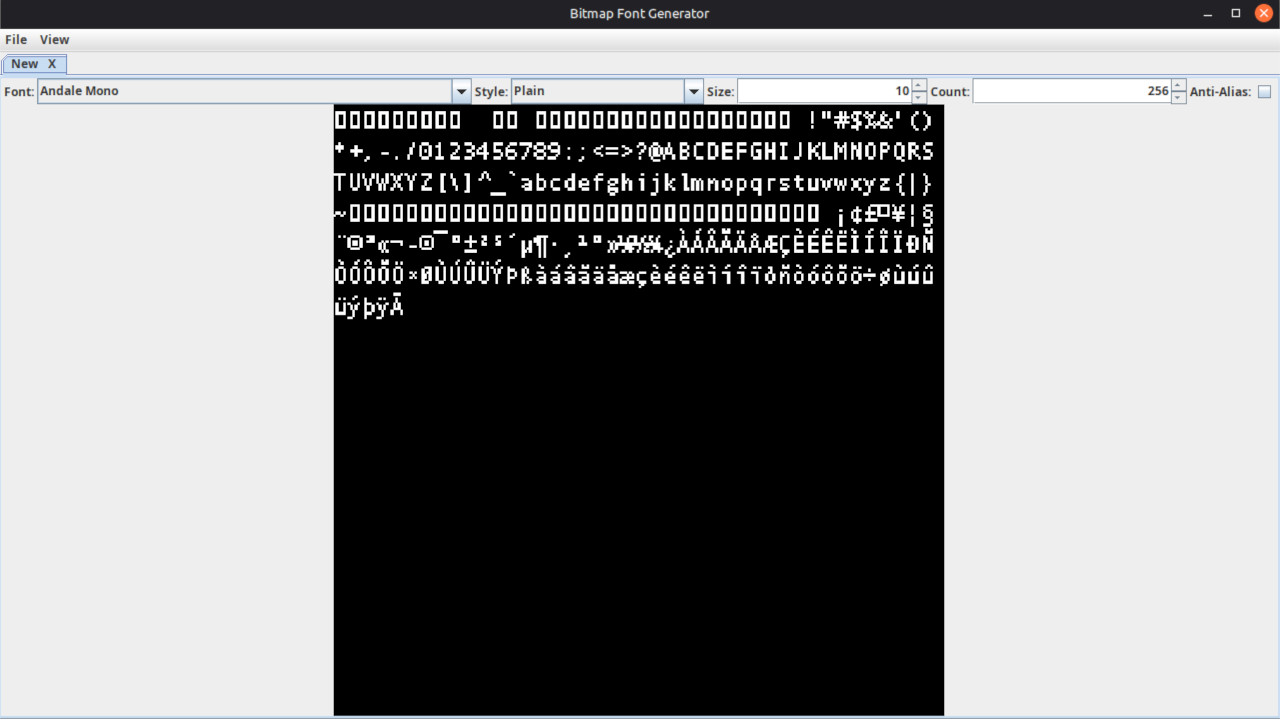
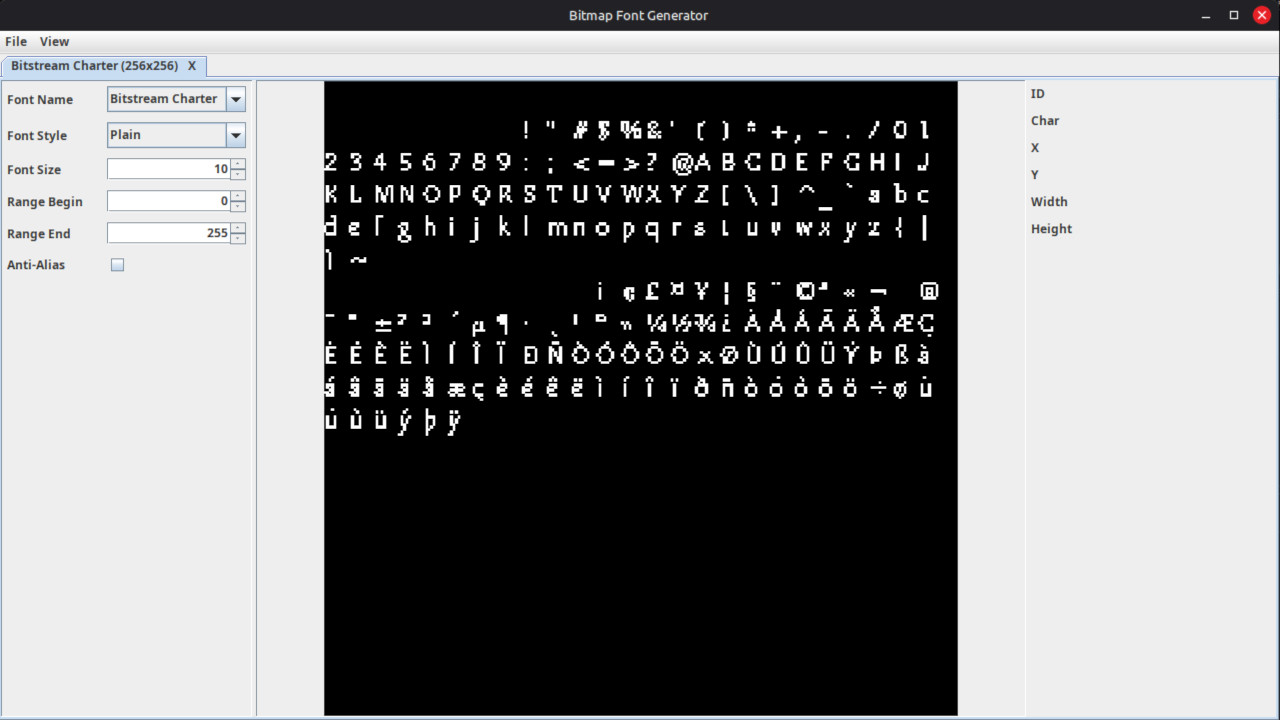
Compile and release

Changed region(s): [[0.0, 0.0, 1.0, 1.0], [0.0, 0.275, 0.0625, 0.3972], [0.8125, 0.275, 0.8438, 0.3361]]

diff --git a/src/org/bfg/Main.java b/src/org/bfg/Main.java
@@ -124,7 +124,7 @@ public final class Main {
         final BitmapFont bitmapFont = BitmapFontGenerator.generate(font, range, antiAlias);
         try {
             // TODO Ask if overwrite
-            Export.export(new File(outPath), bitmapFont);
+            Export.export(new File(outPath), new File(outPath + ".png"), bitmapFont);
         } catch (IOException exception) {
             System.err.println("Error: " + exception.getMessage());
         }

diff --git a/src/org/bfg/gui/tabs/file/dialog/ExportDialog.java b/src/org/bfg/gui/tabs/file/dialog/ExportDialog.java
@@ -13,7 +13,6 @@ import javax.swing.filechooser.FileFilter;
 import java.awt.BorderLayout;
 import java.awt.Component;
 import java.io.File;
-import java.util.Objects;
 
 public final class ExportDialog extends JDialog {
 
